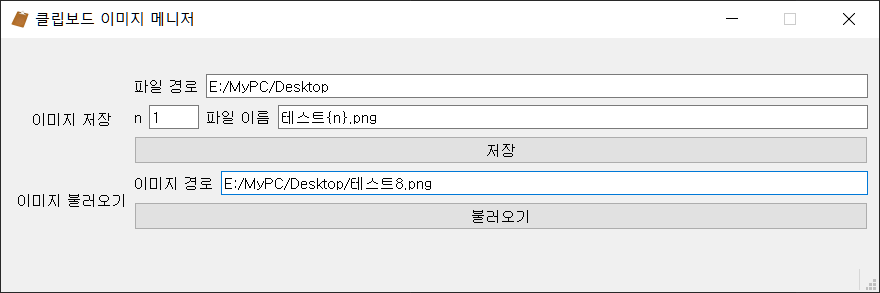
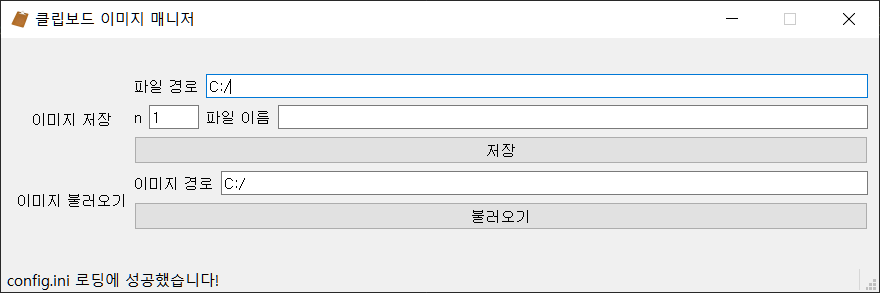
마이너 수정

diff --git a/main.py b/main.py
@@ -202,7 +202,7 @@ class Mainwindow(QMainWindow):
 
     def retranslateUi(self):
         _translate = QtCore.QCoreApplication.translate
-        self.setWindowTitle(_translate("MainWindow", "클립보드 이미지 메니저"))
+        self.setWindowTitle(_translate("MainWindow", "클립보드 이미지 매니저"))
         self.info_imgsave_lb.setText(_translate("MainWindow", "    이미지 저장   "))
         self.info_save_imagepath_lb.setText(_translate("MainWindow", "파일 경로"))
         self.info_save_filename_lb.setText(_translate("MainWindow", "파일 이름"))
